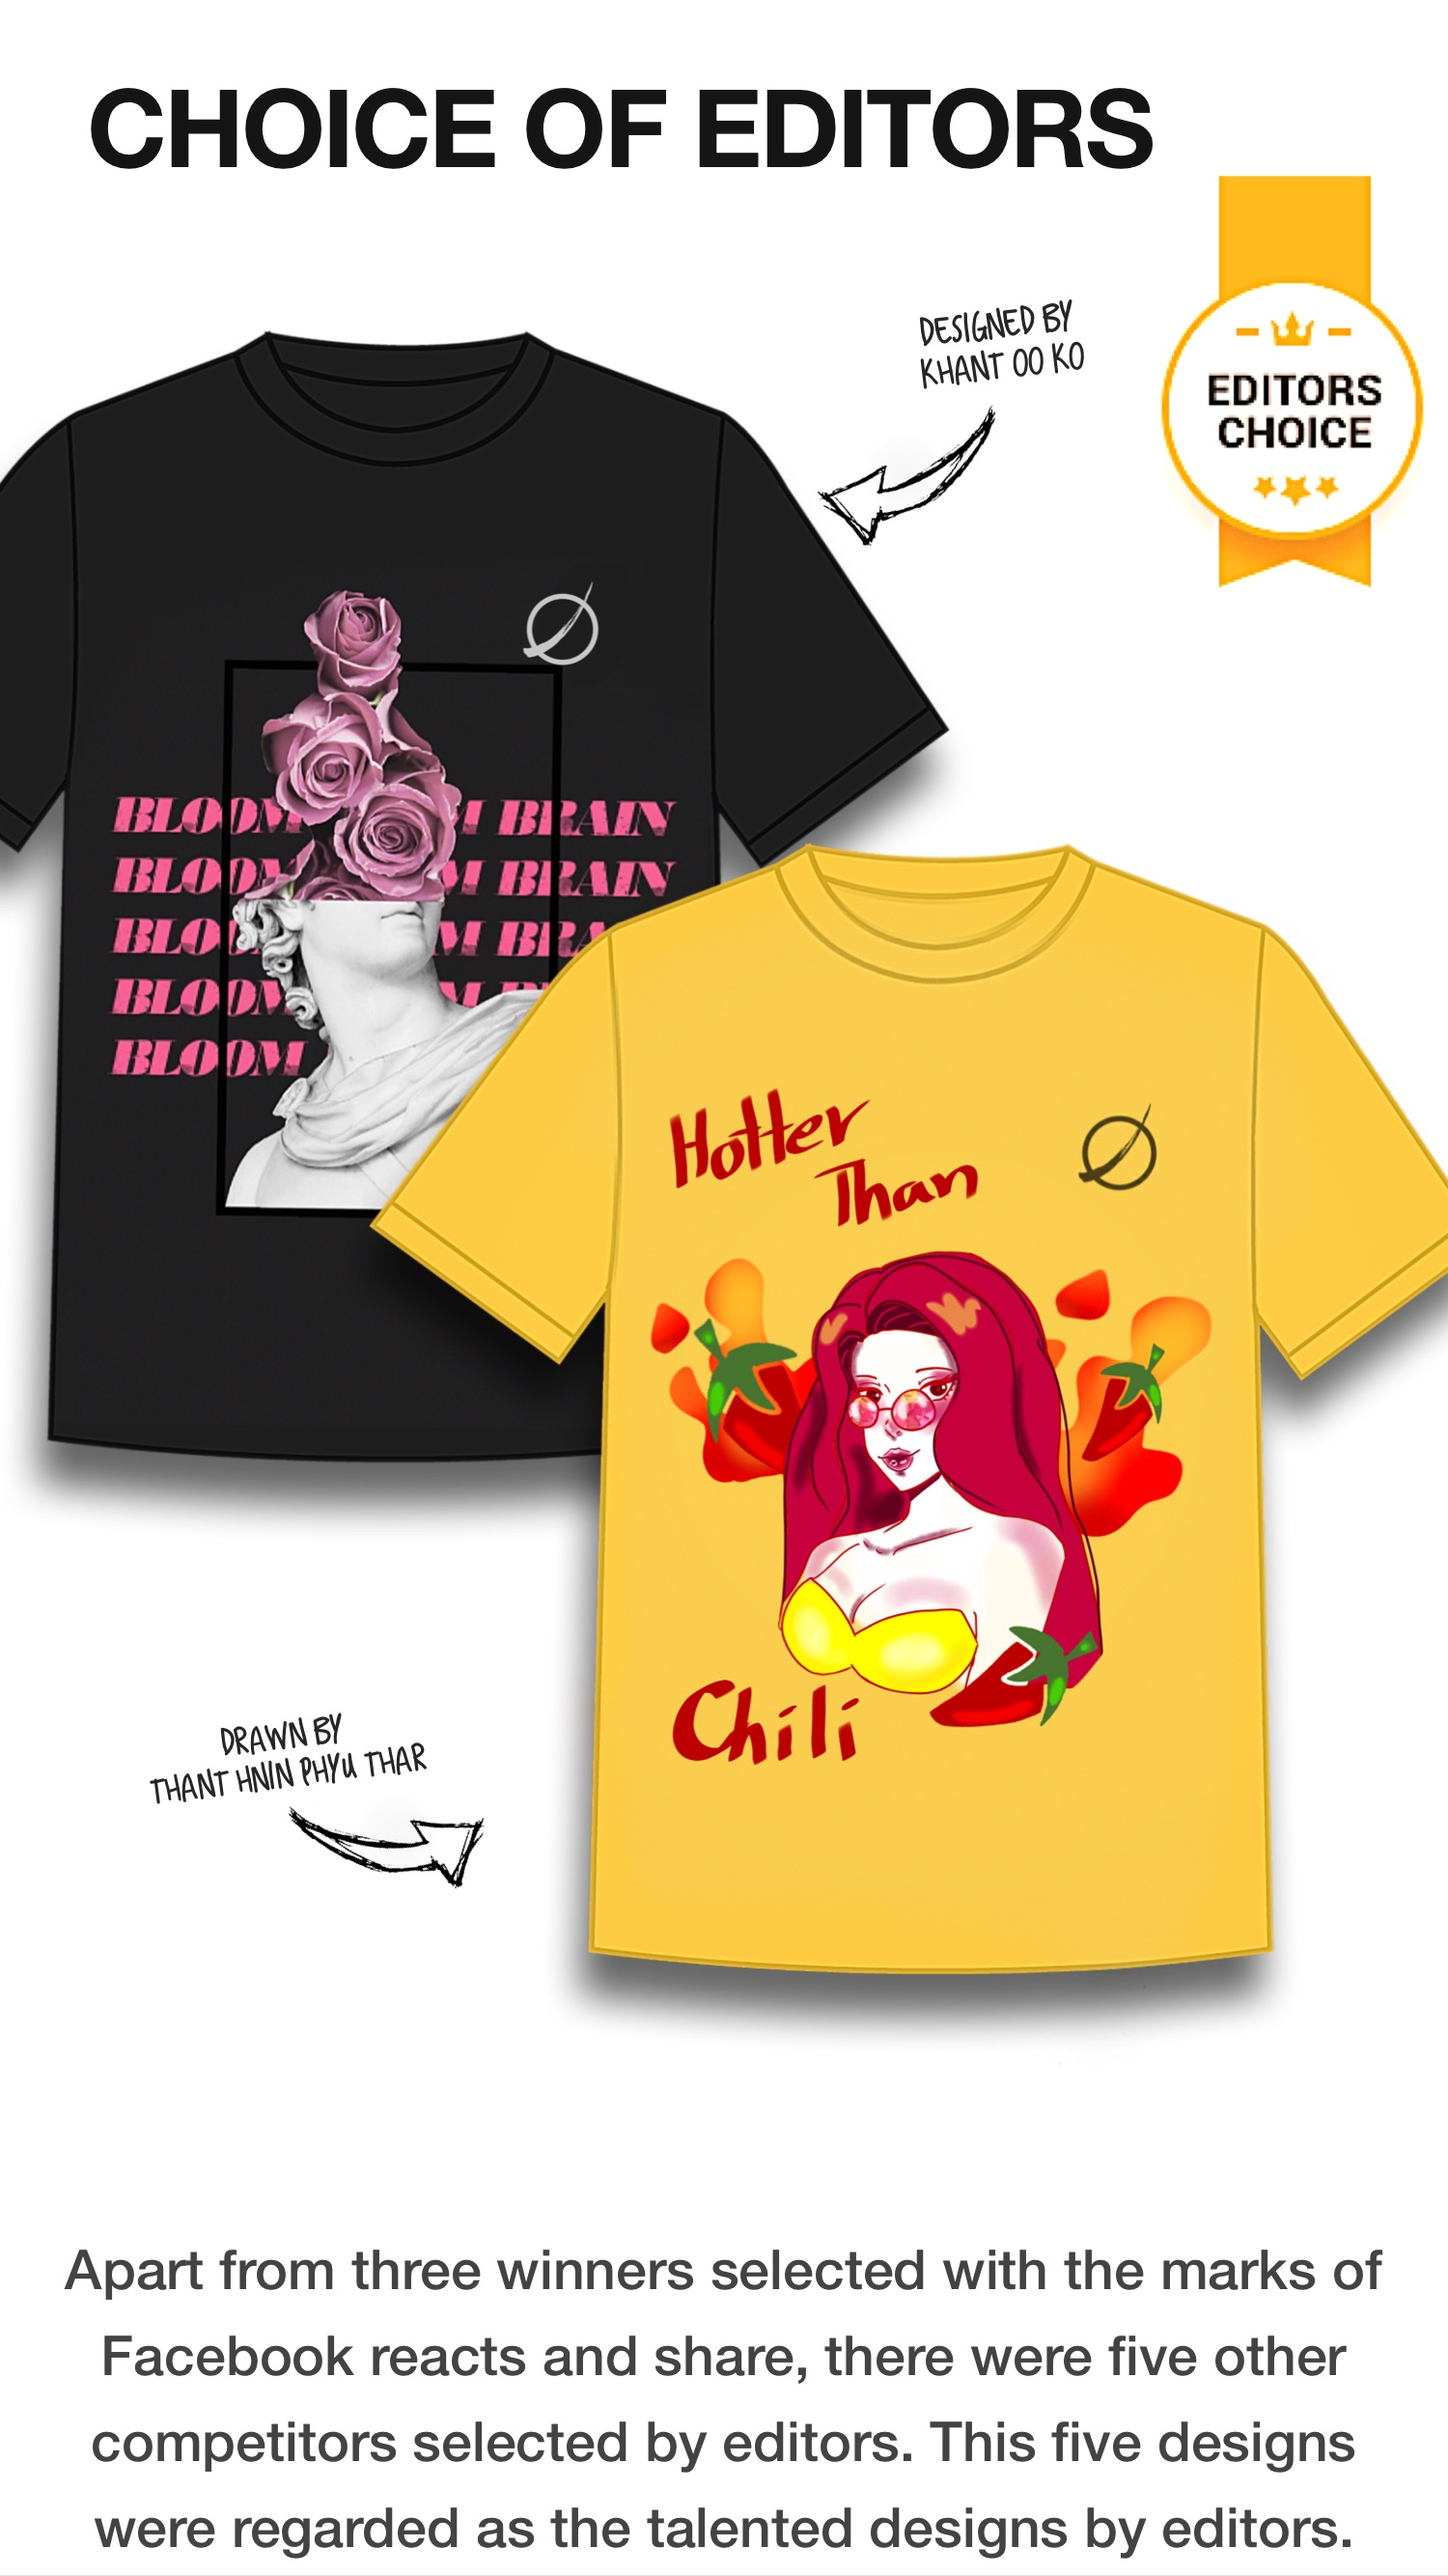
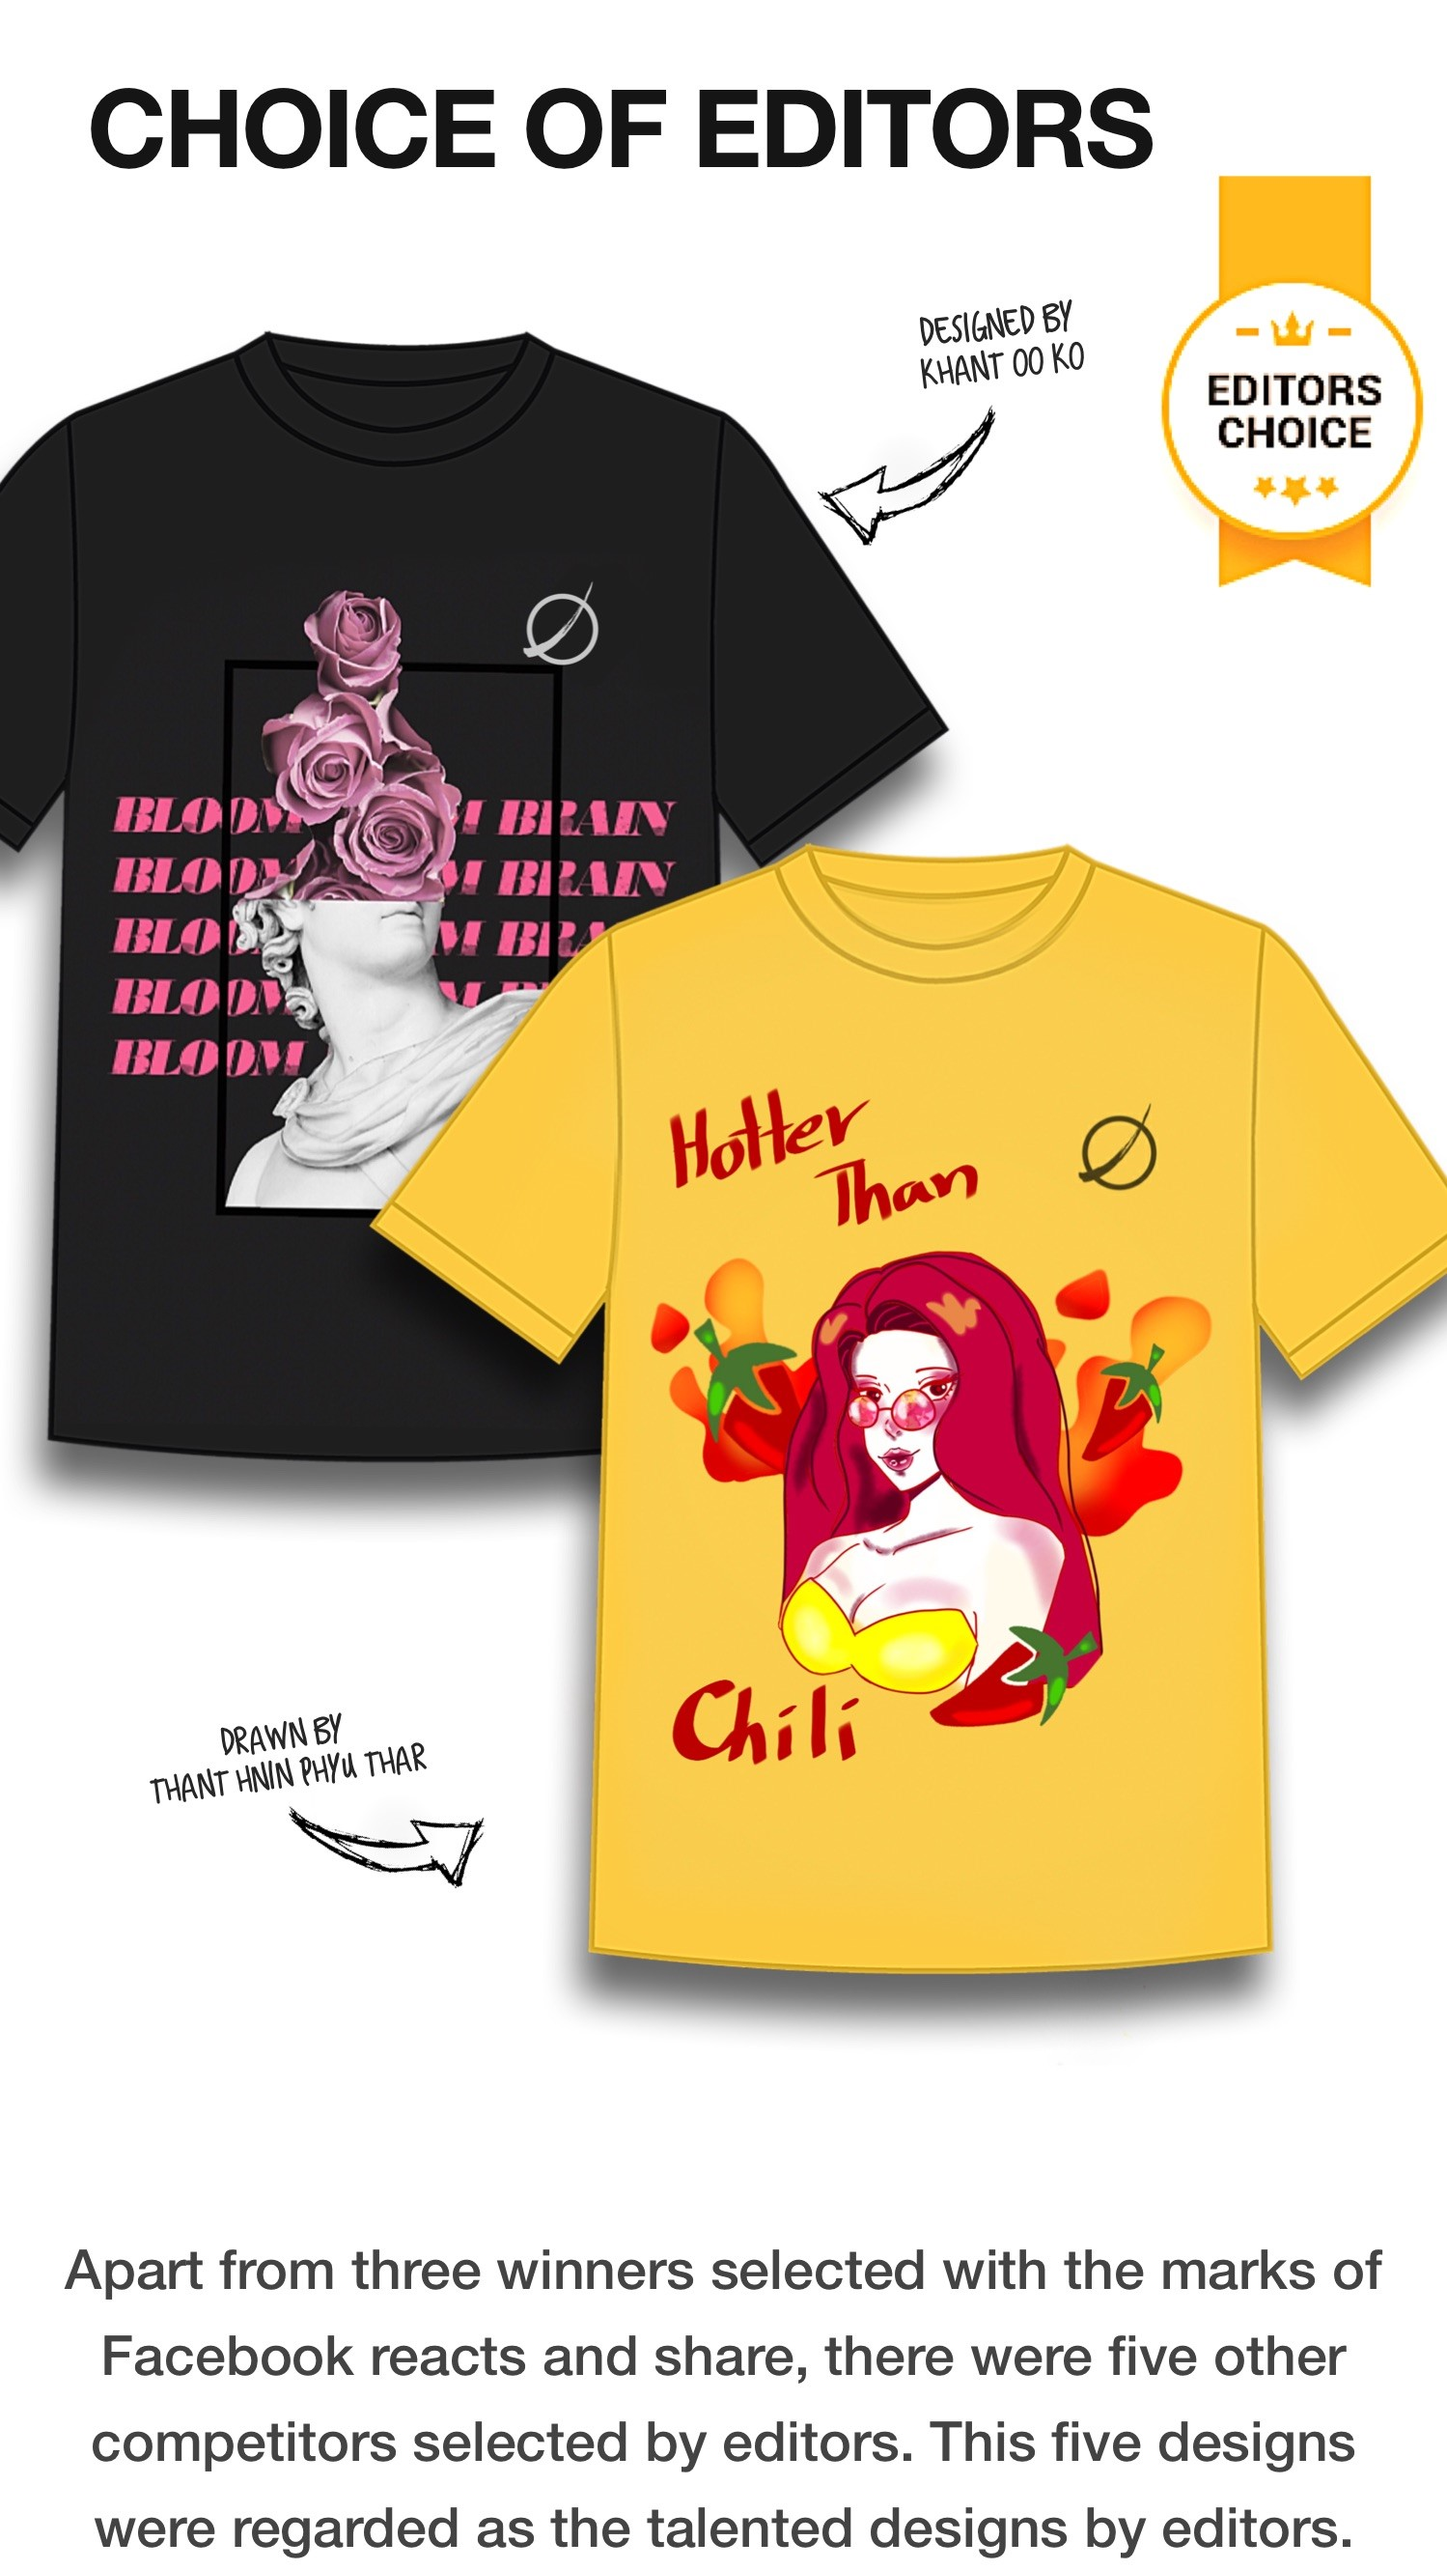
Updated

diff --git a/index.html b/index.html
@@ -62,7 +62,9 @@
     <div class="logo">
         <img src="./logo.png" />
     </div>
-    <img src="banner.gif" >
+    <img src="banner.gif" style="
+    padding-top: 30px;
+" >
     <img src="img1.JPG" class="twbt">
     <img src="img2.JPG" >
     <img src="winners.JPG" >
